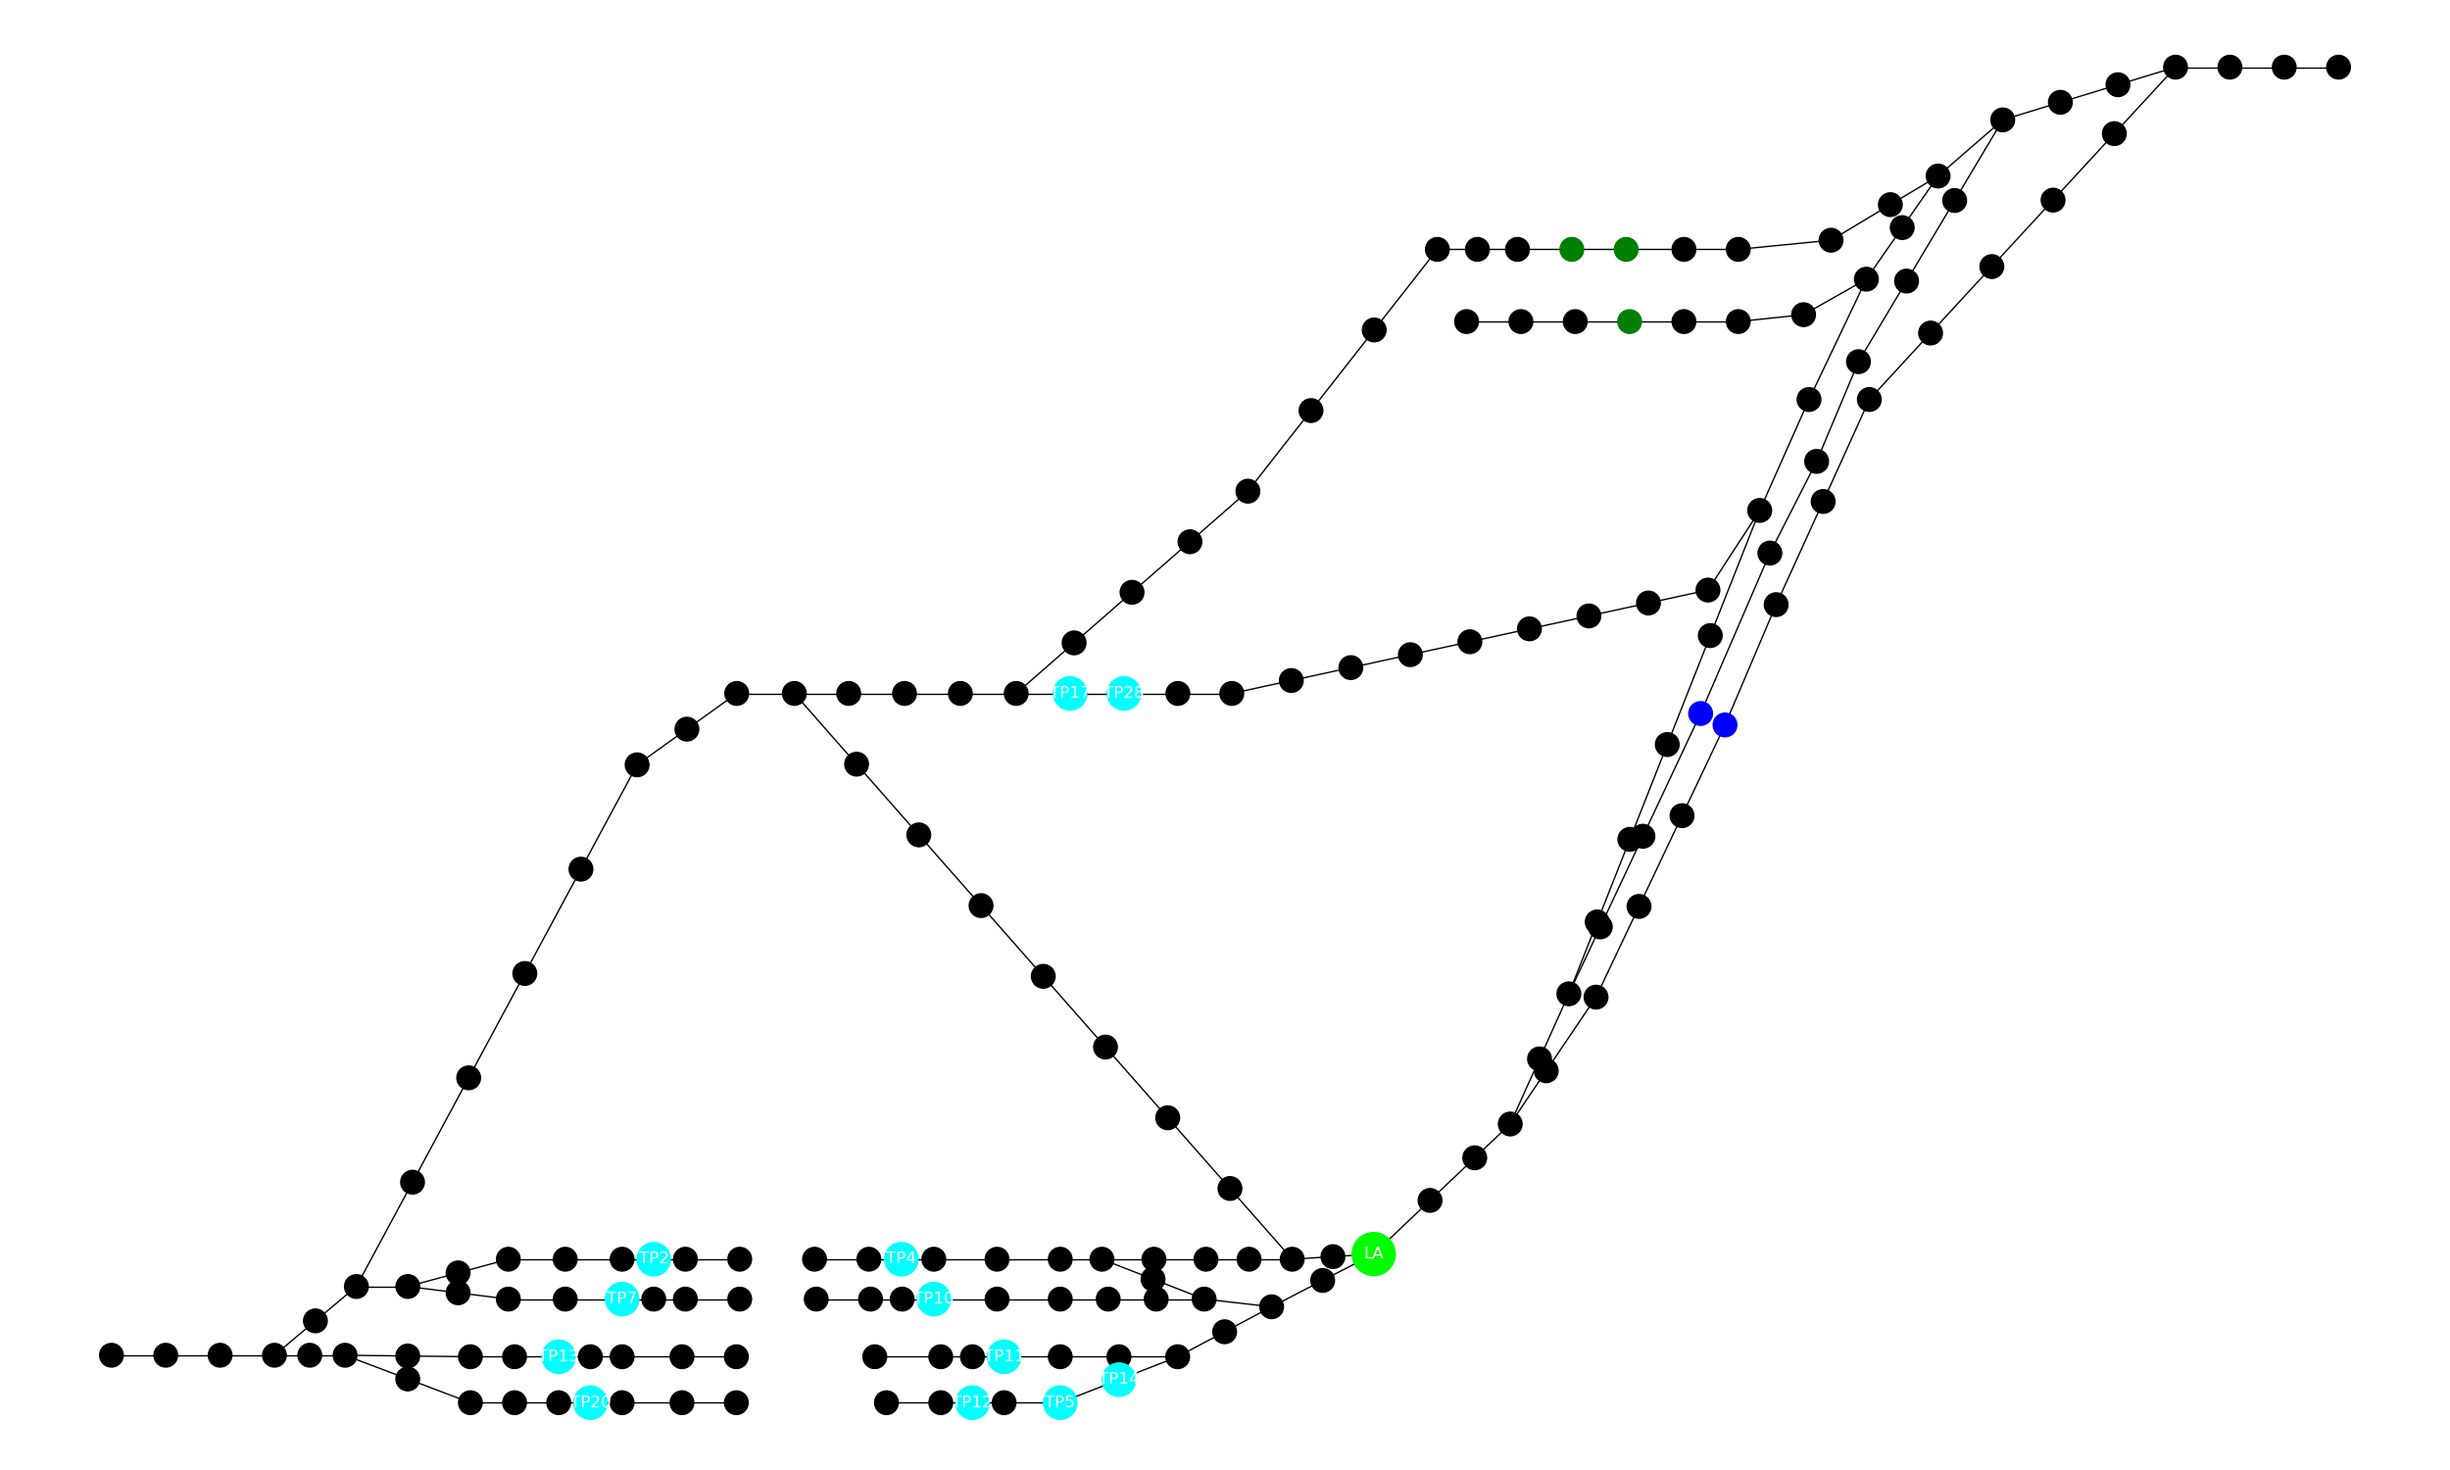
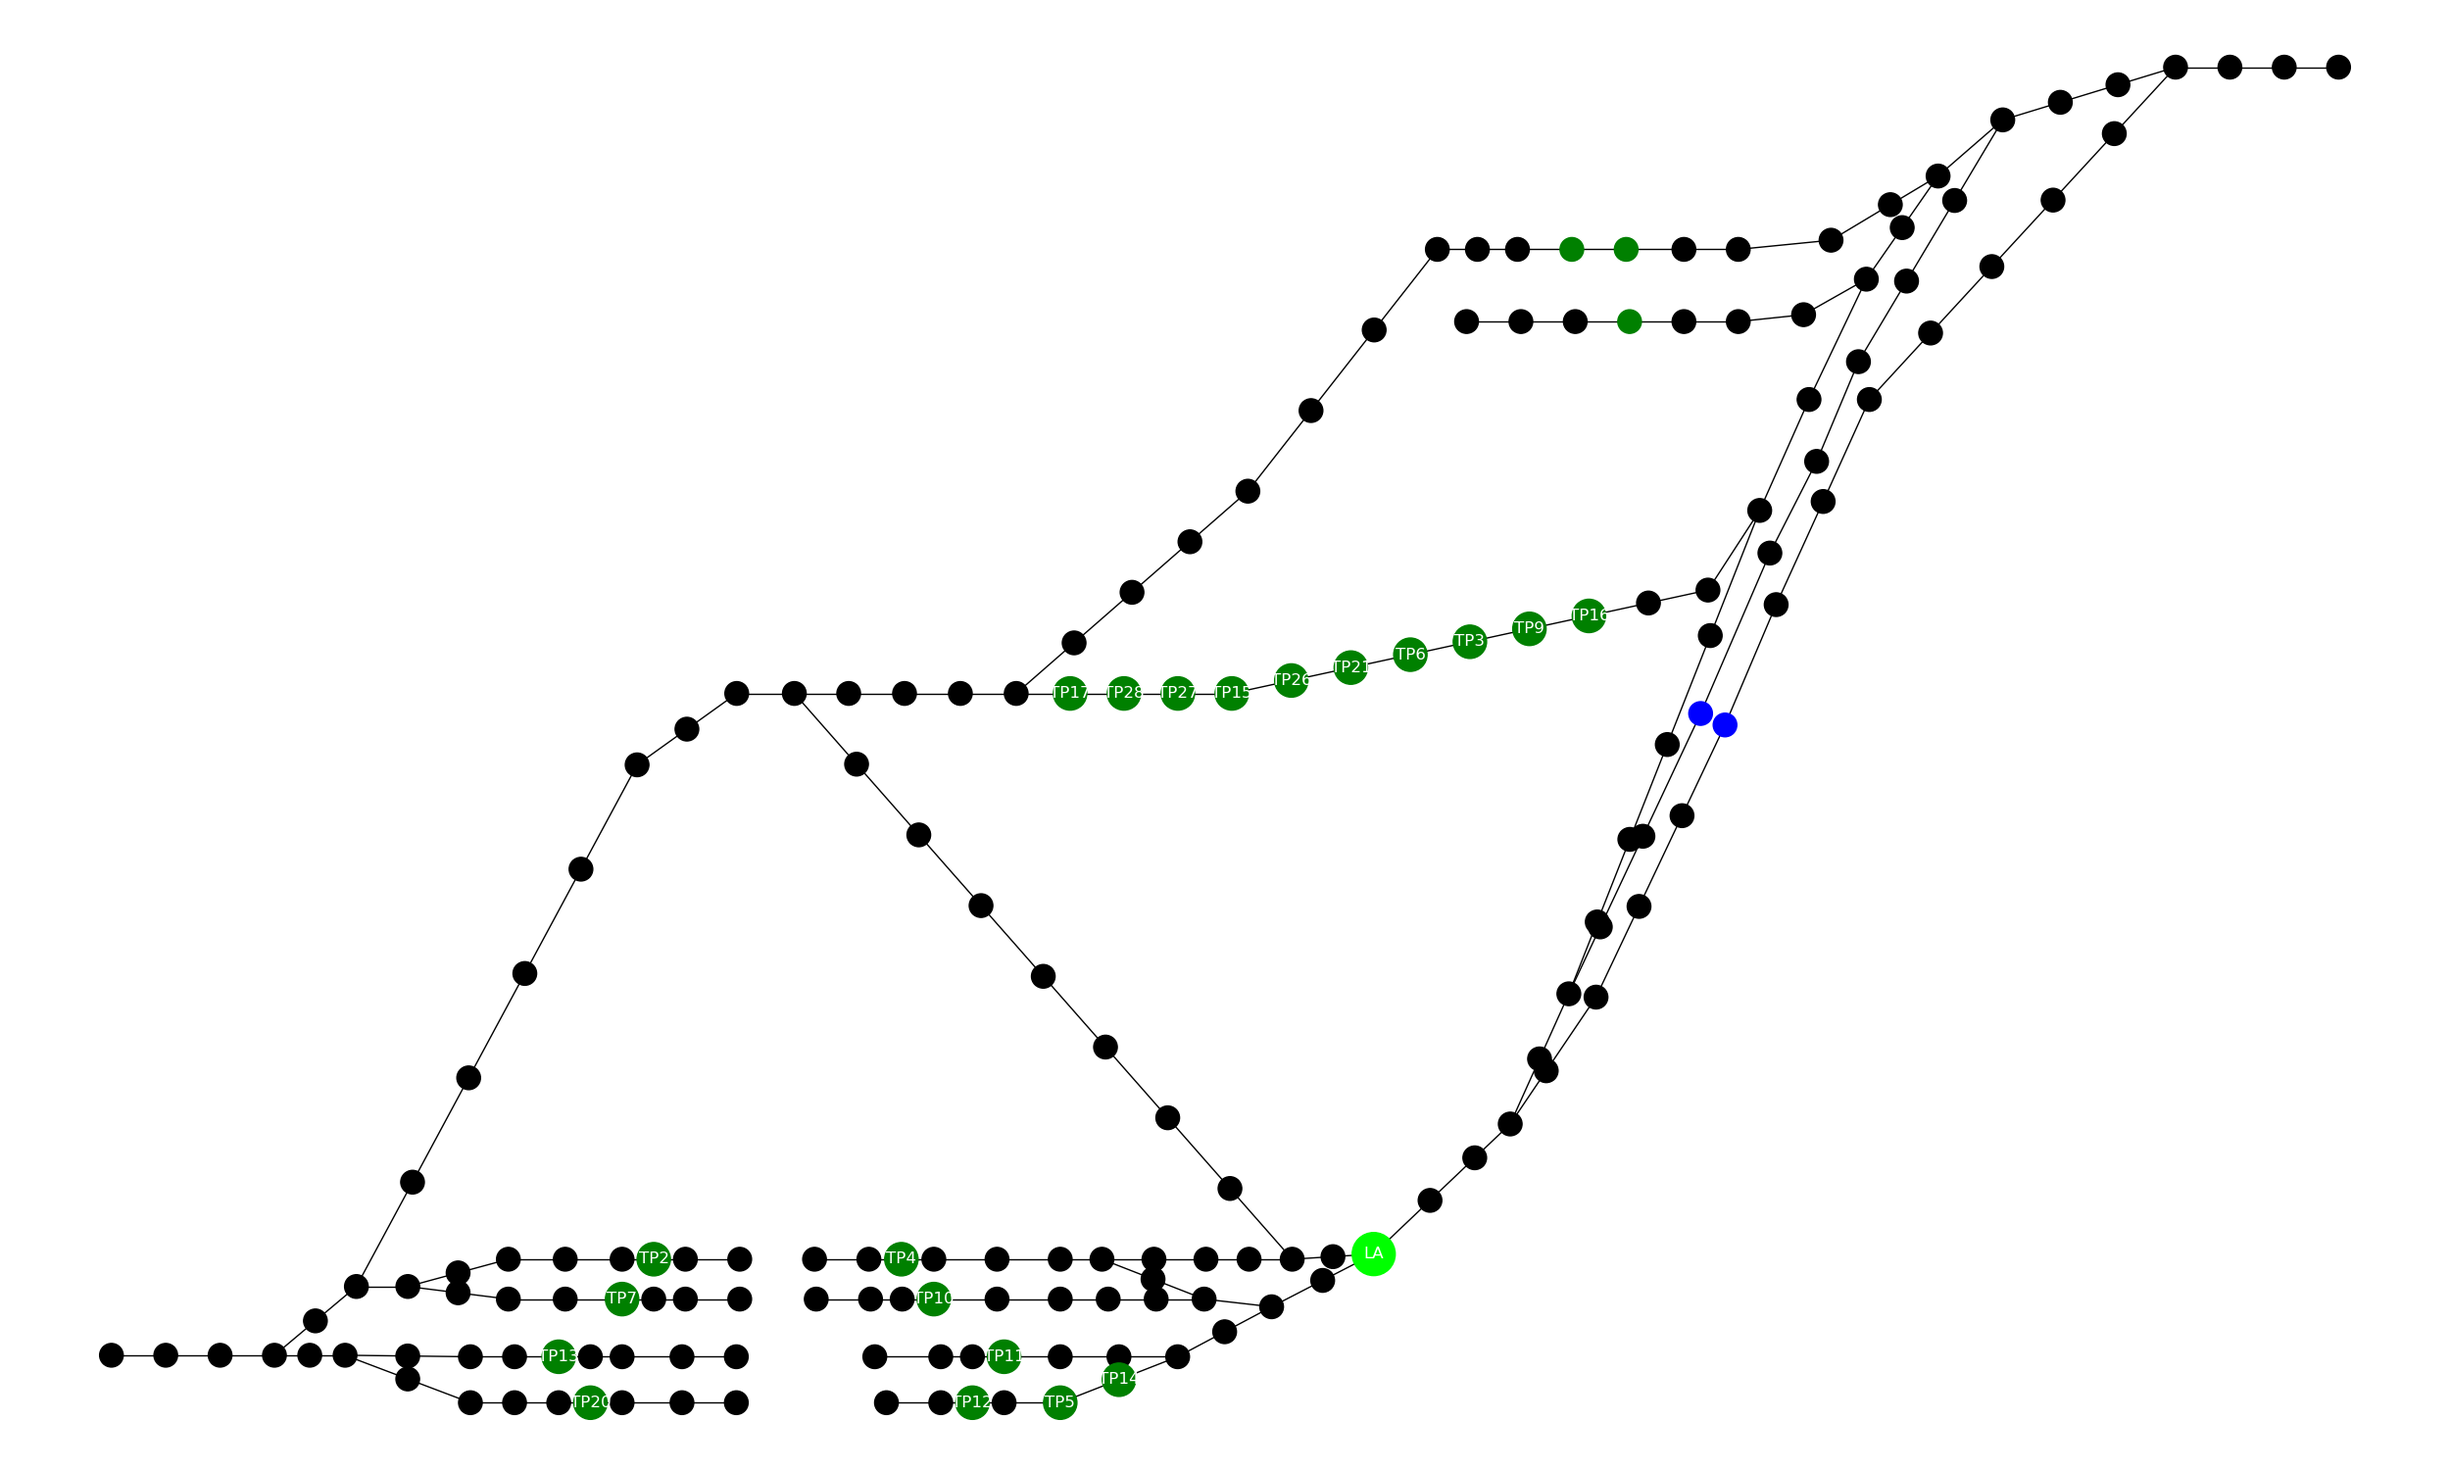
TP visualisation

diff --git a/ImportTPdata.py b/ImportTPdata.py
@@ -271,10 +271,10 @@ def AddTasksToTp(G, Torpedoes, gietLijst):
         endTime -= connect_slots 
         
         # Connect
-        torpedo.tasks.append(Task("Connect", 
-                                  earliestStartTime = startTime, 
-                                  latestStartTime = endTime,
-                                  fixedTime = connect_slots))
+#        torpedo.tasks.append(Task("Connect", 
+#                                  earliestStartTime = startTime, 
+#                                  latestStartTime = endTime,
+#                                  fixedTime = connect_slots))
         startTime += connect_slots
         endTime += connect_slots
         
@@ -286,10 +286,10 @@ def AddTasksToTp(G, Torpedoes, gietLijst):
         endTime += minTimeGAD
         
         # Disconnect
-        torpedo.tasks.append(Task("Disconnect", 
-                                  earliestStartTime = startTime, 
-                                  latestStartTime = endTime, 
-                                  fixedTime = connect_slots))
+#        torpedo.tasks.append(Task("Disconnect", 
+#                                  earliestStartTime = startTime, 
+#                                  latestStartTime = endTime, 
+#                                  fixedTime = connect_slots))
         startTime += connect_slots
         endTime += connect_slots
         
@@ -310,10 +310,10 @@ def AddTasksToTp(G, Torpedoes, gietLijst):
         endTime += blaasDuur 
         
         # Connect
-        torpedo.tasks.append(Task("Connect", 
-                                  earliestStartTime = startTime, 
-                                  latestStartTime = endTime, 
-                                  fixedTime = connect_slots))
+#        torpedo.tasks.append(Task("Connect", 
+#                                  earliestStartTime = startTime, 
+#                                  latestStartTime = endTime, 
+#                                  fixedTime = connect_slots))
         startTime += connect_slots
         endTime += connect_slots 
         
@@ -325,10 +325,10 @@ def AddTasksToTp(G, Torpedoes, gietLijst):
         endTime += minTimeDRy 
         
         # Disconnect
-        torpedo.tasks.append(Task("Disconnect", 
-                                  earliestStartTime = startTime, 
-                                  latestStartTime = endTime, 
-                                  fixedTime = connect_slots))
+#        torpedo.tasks.append(Task("Disconnect", 
+#                                  earliestStartTime = startTime, 
+#                                  latestStartTime = endTime, 
+#                                  fixedTime = connect_slots))
         startTime += connect_slots
         endTime += connect_slots 
         
@@ -341,7 +341,7 @@ def AddTasksToTp(G, Torpedoes, gietLijst):
         endTime += RyC_config_slots 
         
         # pouring at RyC
-        torpedo.tasks.append(Task("Pouring RyC", 
+        torpedo.tasks.append(Task("Pouring", 
                                   earliestStartTime = startTime, 
                                   latestStartTime = endTime, 
                                   fixedTime = pouringTime))
@@ -349,26 +349,25 @@ def AddTasksToTp(G, Torpedoes, gietLijst):
         endTime += pouringTime 
         
         # Connect
-        torpedo.tasks.append(Task("Connect", 
-                                  earliestStartTime = startTime, 
-                                  latestStartTime = endTime, 
-                                  fixedTime = connect_slots))
+#        torpedo.tasks.append(Task("Connect", 
+#                                  earliestStartTime = startTime, 
+#                                  latestStartTime = endTime, 
+#                                  fixedTime = connect_slots))
         startTime += connect_slots
         endTime += connect_slots 
         
         # Move to HOO
         torpedo.tasks.append(Task("Ry -> G", 
                                   earliestStartTime = startTime, 
-                                  latestStartTime = endTime, 
-                                  fixedTime = connect_slots))
+                                  latestStartTime = endTime))
         startTime += minTimeRyG
         endTime += minTimeRyG
         
         # Disconnect
-        torpedo.tasks.append(Task("Disconnect", 
-                                  earliestStartTime = startTime, 
-                                  latestStartTime = endTime, 
-                                  fixedTime = connect_slots))
+#        torpedo.tasks.append(Task("Disconnect", 
+#                                  earliestStartTime = startTime, 
+#                                  latestStartTime = endTime, 
+#                                  fixedTime = connect_slots))
         startTime += connect_slots
         endTime += connect_slots 
         
@@ -376,7 +375,8 @@ def AddTasksToTp(G, Torpedoes, gietLijst):
         torpedo.tasks.append(Task("Fill",
                                   starttime = nextFillTimeStart,
                                   endtime = nextFillTimeEnd,
-                                  fixedTime = nextFillTimeEnd - nextFillTimeStart))
+                                  fixedTime = nextFillTimeEnd - nextFillTimeStart, 
+                                  castingNode = gietLijst["Casting Node"].to_list()[nextuseIndex]))
          
 def generateTaskList(G, df, Torpedoes):
     GietA = df[df["Hoo"] == 'A'].reset_index(drop = True)

diff --git a/Visualise.py b/Visualise.py
@@ -28,8 +28,9 @@ def generate_node_sizes_LOCATIONS(G, Locations, UsedTPs = list(range(T)), UsedLo
 def generate_color_map_TORPEDOES(G, t, Torpedoes, Locomotives):
     locoPos = [l.location[t] for l in Locomotives if not (l.location[t] == None)]
     tp_pos = [tp.location[t] for tp in Torpedoes if not (tp.location[t] == None)]
+    tp_states = [tp.state[t] for tp in Torpedoes if not (tp.location[t] == None)]
     
-    return generate_color_map(G, locoPos, tp_pos)
+    return generate_color_map(G, locoPos, tp_pos, tp_states = tp_states)
 
 def generate_node_sizes_TORPEDOES(G, t, Torpedoes, Locomotives):
     locoPos = [l.location[t] for l in Locomotives if not (l.location[t] == None)]
@@ -37,14 +38,21 @@ def generate_node_sizes_TORPEDOES(G, t, Torpedoes, Locomotives):
     
     return generate_node_sizes(G, locoPos, tp_pos)
 
-def generate_color_map(G, locoPos, tp_pos):
+def generate_color_map(G, locoPos, tp_pos, tp_states = []):
     color_map = []
     
     for node in G:
         if int(node) in locoPos:
             color_map.append('lime')
         elif int(node) in tp_pos:
-            color_map.append('cyan')
+            i = tp_pos.index(int(node))
+            
+            if tp_states[i] == "Full":
+                color_map.append('red')
+            elif tp_states[i] == "Desulpured":
+                color_map.append('orange')
+            else:
+                color_map.append('green')
         elif int(node) in nG:
             color_map.append('red')
         elif int(node) in nD:
@@ -85,7 +93,8 @@ def plot_Graph(G, figNum, Locations, UsedTPs = list(range(T)), UsedLocos = list(
         labeldict[Locations["Loco %d pos"%l]] = "L%d"%l
     for j in UsedTPs:
         labeldict[Locations["TP %d pos"%j]] = "TP%d"%j
-
+    
+    
     if(node_labels):
         nx.draw(G, pos, node_color=color_map, node_size = node_sizes, 
                 font_color = 'w', with_labels = True)
@@ -116,7 +125,13 @@ def plot_Graph2(G, t, Torpedoes, Locomotives, save = False):
     for tp in Torpedoes:
         if(tp.location[t] != None):
             labeldict[int(tp.location[t])] = "TP%d"%tp.number
-
+#            
+#            if tp.state[t] == "Empty":
+#                color_map[int(tp.location[t])] = 'green'
+#            elif tp.state[t] == "Full":
+#                color_map[int(tp.location[t])] = 'red'
+#            elif tp.state[t] == "Desulphured":
+#                color_map[int(tp.location[t])] = 'orange'
 
     nx.draw(G, pos, node_color=color_map, node_size = node_sizes, 
             font_color = 'w', labels = labeldict)

diff --git a/Torpedo.py b/Torpedo.py
@@ -7,7 +7,7 @@ Created on Thu Mar 17 15:03:56 2022
 
 import pandas as pd
 
-from PARAMS import H, run_in
+from PARAMS import H, run_in, nD, nRy
 #from Task import Task
 
 
@@ -19,6 +19,7 @@ class Torpedo:
         self.state = ["Empty"]
         self.tasks = []
         
+        self.movementREQ = False
         self.taskTimeCounter = 0
         
     def Reset(self):
@@ -31,10 +32,55 @@ class Torpedo:
             
             
     def TaskFinished(self):
-        self.tasks[self.tasks.index(False)] = True
+        task = self.CurrentTask()
+        
+        if task.Name == "Fill":
+            self.state.append("Full")
+        elif task.Name == "Desulphur":
+            self.state.append("Desulphured")
+        elif task.Name == "Pouring":
+            self.state.append("Empty")
+        
+        self.movementREQ = False
+        task.finished = True
         
     def CurrentTask(self):
-        return self.tasks.index(False)
+        todo = [i for i in self.tasks if i.finished == False]
+        return None if len(todo) == 0 else todo[0]
+    
+    def update(self, t):
+        if self.taskTimeCounter > 0:
+            self.taskTimeCounter -= 1
+            if self.taskTimeCounter == 0:
+                self.TaskFinished()
+        else:
+            task = self.CurrentTask()
+            
+            if task == None:
+                return
+            
+            if "->" in task.name: # movement request
+                self.movementREQ = True
+                
+            elif task.name == "Configure Desulphur" or task.name == "Desulphur":
+                if self.location[t-1] in nD:
+                    self.taskTimeCounter = task.fixedTime
+                else:
+                    print("Not at right location!")
+            elif task.name == "Configure RyC" or task.name == "Pouring":
+                if self.location[t-1] in nRy:
+                    self.taskTimeCounter = task.fixedTime
+                else:
+                    print("Not at right location!")
+            elif task.name == "Fill" and t == task.starttime:
+                if self.location[t-1] == task.castingNode:
+                    self.taskTimeCounter = task.fixedTime
+                else:
+                    print("Not at right location!")
+            else:
+                print("Something went wrong with routing!")
+            
+        
         
     # static method to load data
     # STATIC

diff --git a/Task.py b/Task.py
@@ -10,13 +10,16 @@ from PARAMS import H, run_in
 class Task:
     def __init__(self, name, fixedTime = None,
                  starttime = None, endtime = None, 
-                 earliestStartTime = 0, latestStartTime = H+run_in-1):
+                 earliestStartTime = 0, latestStartTime = H+run_in-1,
+                 castingNode = None):
         self.name = name
         self.fixedTime = None if fixedTime == None else int(round(fixedTime))
         self.starttime = None if starttime == None else int(round(starttime))
         self.endtime = None if endtime == None else int(round(endtime))
         self.earliestStartTime = None if earliestStartTime == None else int(round(earliestStartTime))
         self.latestStartTime = None if latestStartTime == None else int(round(latestStartTime))
+        
+        self.castingNode = castingNode
         
         self.finished = False
         

diff --git a/Simulate.py b/Simulate.py
@@ -8,7 +8,7 @@ Created on Sun May  1 22:16:49 2022
 from PARAMS import H, run_in
 
 from ImportNetwork import import_network
-from ImportTPdata import generate_TPlocations, generate_Locolocations
+from ImportTPdata import generate_TPlocations, generate_Locolocations, generateTaskList, importTpData
 from Visualise import generate_GIF2
 
 
@@ -18,9 +18,20 @@ G = DiG.to_undirected()
 Torpedoes = generate_TPlocations(DiG)
 Locomotives = generate_Locolocations(DiG)
 
+df = importTpData()
+Tasks = generateTaskList(G, df, Torpedoes)
+
 for t in range(1, H + run_in):
+    movementReq = []
+    
+    for tp in Torpedoes:
+        tp.update(t)
+        if tp.movementREQ == True:
+            movementReq.append(tp)
+    
     for l in Locomotives:
         l.update(G, DiG, t)
+        
 
 #interpretation    
 generate_GIF2(G, Locomotives, Torpedoes)

diff --git a/PARAMS.py b/PARAMS.py
@@ -63,7 +63,7 @@ RyC_init_speed_slots = RyC_init_speed * timestep # in tons/timeslot
 RyC_speed_slots = RyC_speed * timestep # in tons/timeslot
 
 # Planning Horizon in seconds
-ph = 3 * 3600
+ph = 6 * 3600
 ri = 0  * 3600
 
 H = round(ph / timestep)
